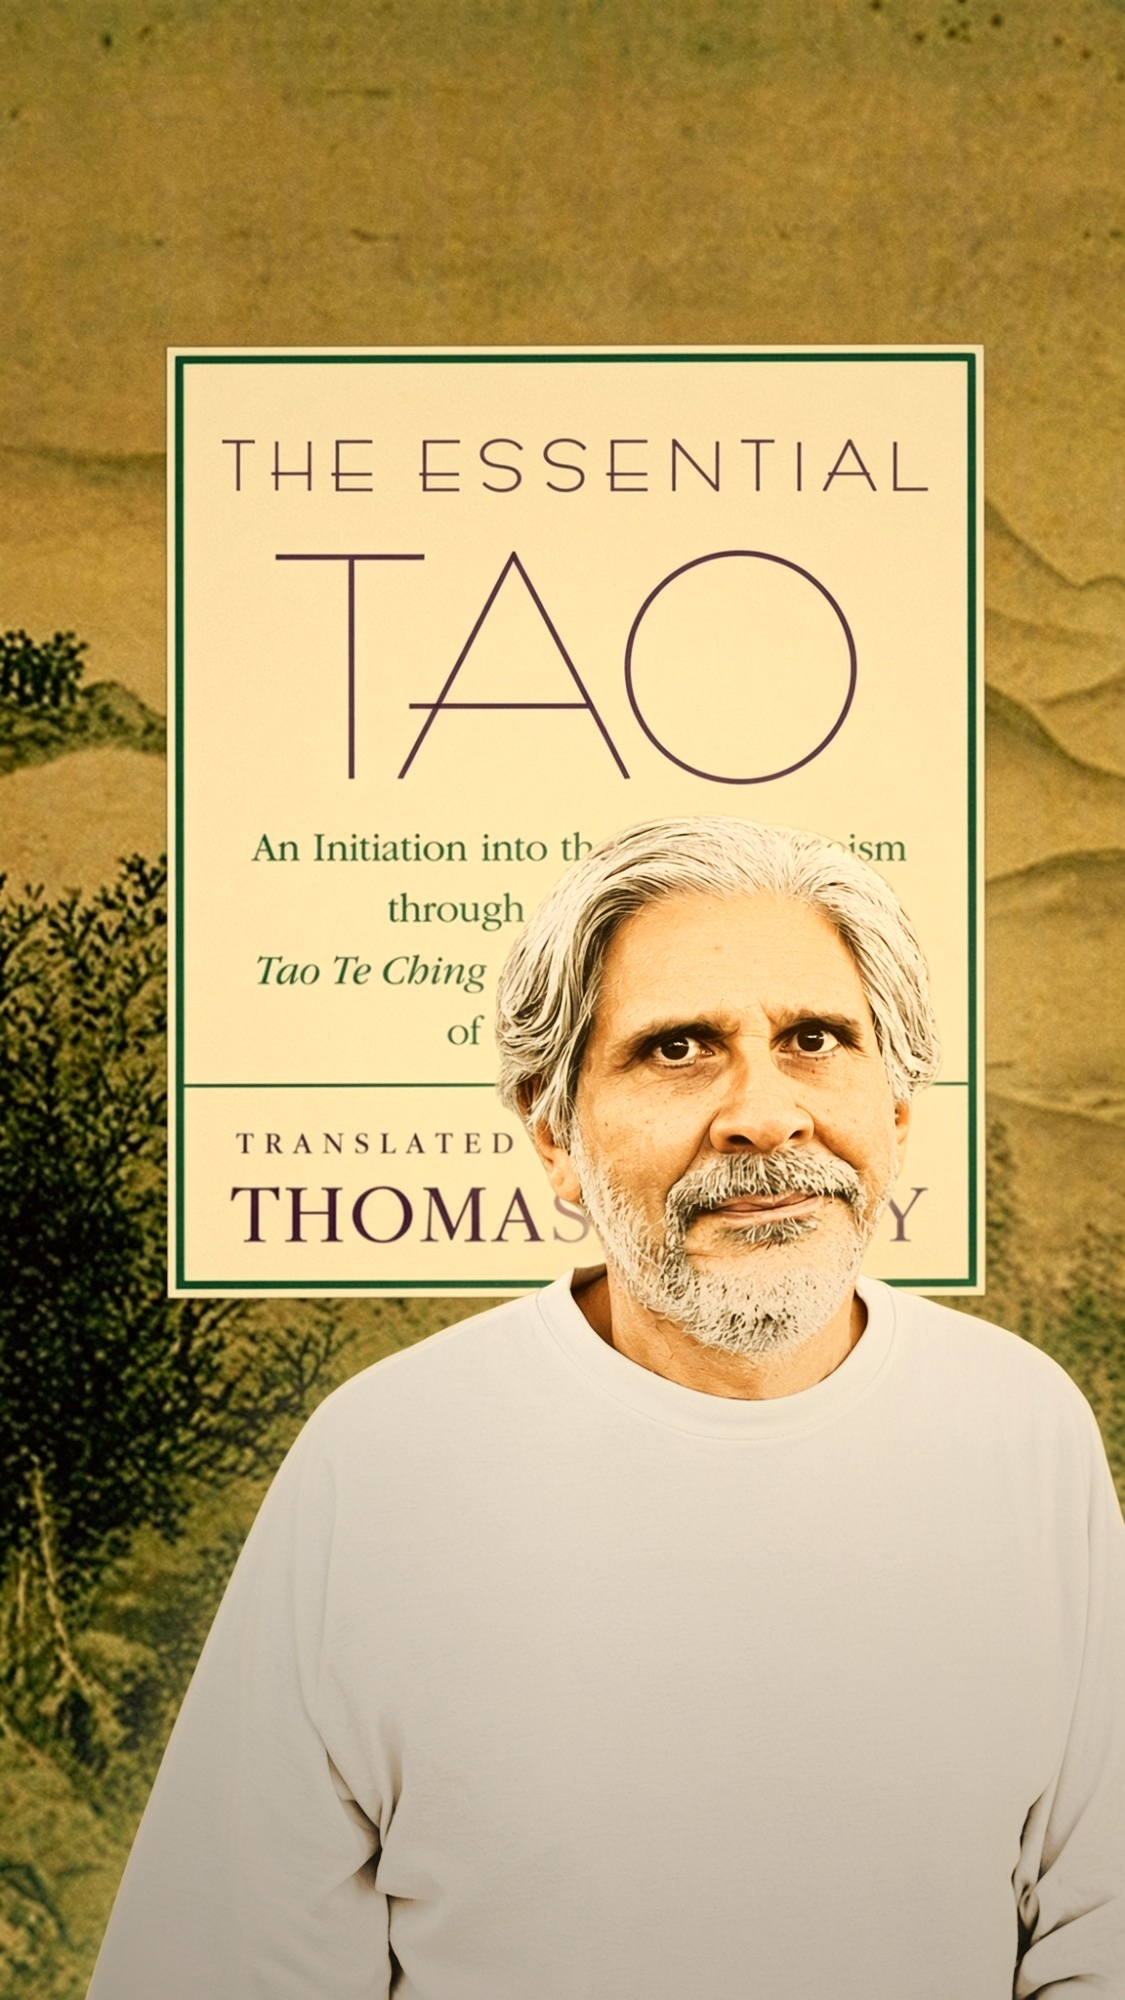
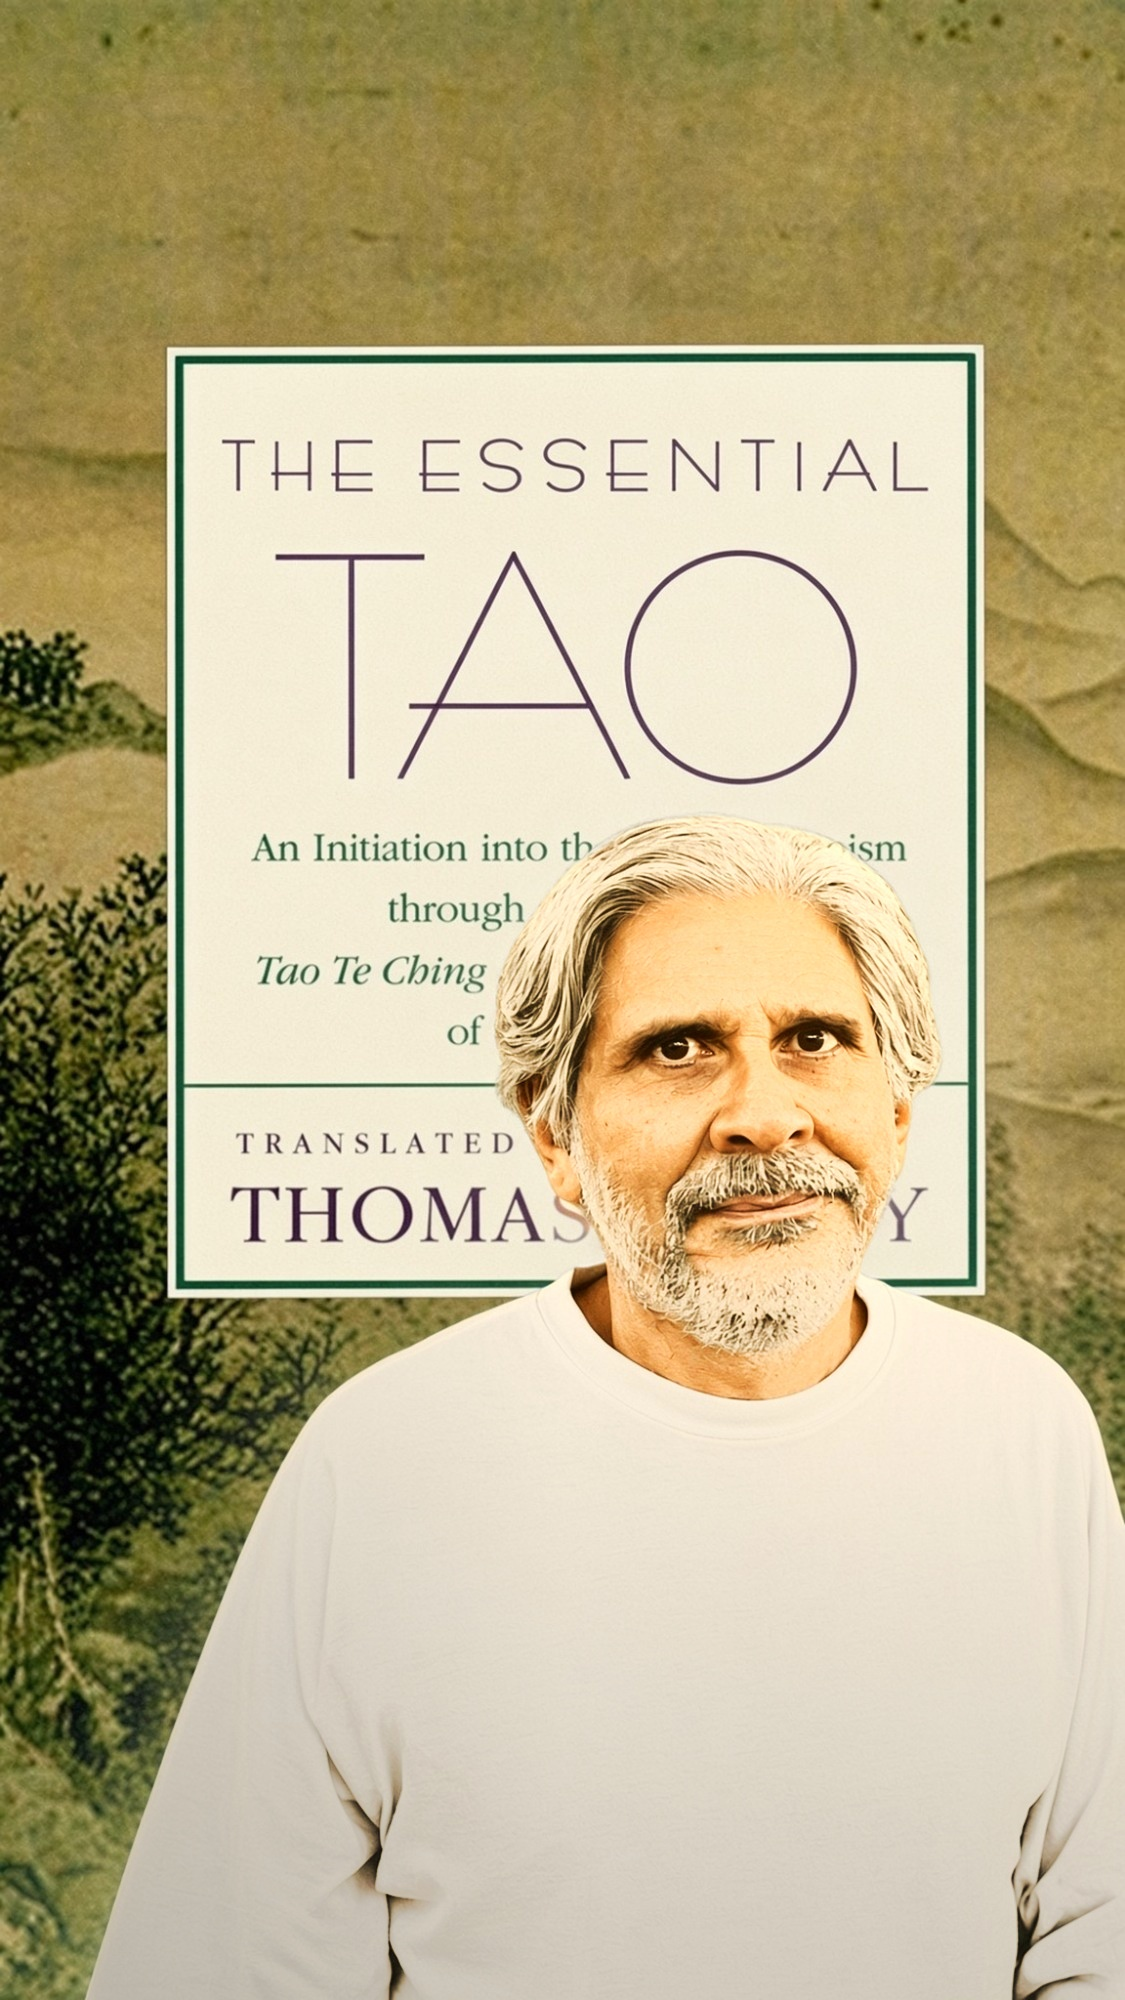
tao-thumbnail: grade only the figure in warm version, leave cover untouched
Claude-Session: https://claude.ai/code/session_01VK5osbM125YMLnMxdfYMnY

diff --git a/tao-thumbnail/warm_up.py b/tao-thumbnail/warm_up.py
@@ -1,8 +1,9 @@
-"""Warm up the lighting and make the figure pop in a finished thumbnail.
+"""Warm up the figure in a finished thumbnail, leaving the cover untouched.
 
 Usage: python3 warm_up.py IN.jpg OUT.jpg
-Cuts the figure out of IN, grades figure and background separately, and
-recombines them with a warm key light, rim light and vignette.
+Cuts the figure out of IN, grades only the figure (warm skin, contrast, a
+golden key light and a shaded shirt) and puts it back over IN's own
+background pixels, which are left exactly as they were.
 """
 import os
 import sys
@@ -56,12 +57,6 @@ def grade_figure(rgb):
     return rgb
 
 
-def grade_background(rgb):
-    rgb = rgb * np.array([1.06, 1.0, 0.86]) + np.array([0.015, 0.005, 0.0])
-    rgb = saturate(rgb, 1.08)
-    return s_curve(rgb, 0.08)
-
-
 def radial(h, w, cx, cy, r):
     yy, xx = np.mgrid[0:h, 0:w]
     d = np.sqrt((xx - cx) ** 2 + (yy - cy) ** 2) / r
@@ -75,12 +70,6 @@ def main(src, dst):
     a = figure_alpha(im, os.path.join("build", "cut-" + os.path.basename(src) + ".png"))
 
     fig = grade_figure(rgb)
-    bg = grade_background(rgb)
-
-    # warm halo behind the figure so it separates from the card/painting
-    soft = np.asarray(to_img(a[..., 0], "L").filter(ImageFilter.GaussianBlur(45)))
-    halo = (soft.astype(np.float32) / 255.0)[..., None] * 0.18
-    bg = bg * (1 - halo) + np.array([1.0, 0.86, 0.62]) * halo
 
     # shape the shirt: falloff toward the bottom and the left (away from the key)
     yy, xx = np.mgrid[0:h, 0:w]
@@ -88,21 +77,17 @@ def main(src, dst):
     lum = (fig @ LUMA)[..., None]
     fig = fig * (1 - form[..., None] * np.clip((lum - 0.6) / 0.3, 0, 1))
 
-    out = bg * (1 - a) + fig * a
-
     # golden key light from upper right, falling across the face
     key = radial(h, w, w * 0.78, h * 0.48, w * 0.95) ** 2
-    out = out + key * np.array([0.09, 0.05, 0.0]) * (0.12 + 0.88 * a)
+    fig = fig + key * np.array([0.09, 0.05, 0.0])
 
-    # warm rim on the figure's edge
-    edge = a - (to_arr(to_img(a[..., 0], "L").filter(ImageFilter.MinFilter(9))))[..., None]
-    edge = np.asarray(to_img(np.clip(edge, 0, 1)[..., 0], "L").filter(ImageFilter.GaussianBlur(4)))
-    edge = (edge.astype(np.float32) / 255.0)[..., None]
-    out = out + edge * np.array([0.06, 0.04, 0.01])
+    # warm rim just inside the figure's edge
+    inner = to_arr(to_img(a[..., 0], "L").filter(ImageFilter.MinFilter(9)))[..., None]
+    edge = to_img(np.clip(a - inner, 0, 1)[..., 0], "L").filter(ImageFilter.GaussianBlur(4))
+    fig = fig + to_arr(edge)[..., None] * np.array([0.06, 0.04, 0.01])
 
-    # soft warm-brown vignette to focus the frame
-    vig = 1 - radial(h, w, w * 0.55, h * 0.5, max(w, h) * 0.75) ** 0.6
-    out = out * (1 - vig * 0.35) + vig * 0.35 * np.array([0.22, 0.15, 0.07]) * out * 2
+    # only the figure changes; the background is the input, untouched
+    out = rgb * (1 - a) + np.clip(fig, 0, 1) * a
 
     to_img(out).save(dst, quality=95)
 

diff --git a/tao-thumbnail/README.md b/tao-thumbnail/README.md
@@ -10,7 +10,7 @@ Cleary) as the background, with a portrait composited in the foreground.
 - `out/thumbnail-indoor.jpg` — big, golden candlelit grade, over the lower card
 - `out/thumbnail-outdoor.jpg` — close-up bleeding off the right, olive split tone, backlit hair
 - `src/user-edit.jpg` — hand-edited layout (B&W portrait colorized, over the card)
-- `out/thumbnail-warm.jpg` — `user-edit.jpg` with warm key light, richer skin tones and a shaded shirt
+- `out/thumbnail-warm.jpg` — `user-edit.jpg` with only the figure regraded (warm skin, golden key light, shaded shirt); cover untouched
 - `out/thumbnail-ink.jpg` — B&W portrait multiplied into the painting like brush ink, on a cream mist
 
 ## Build
